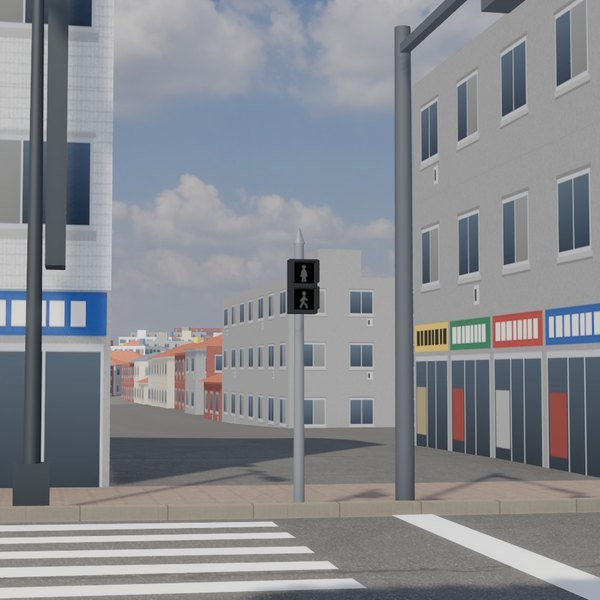
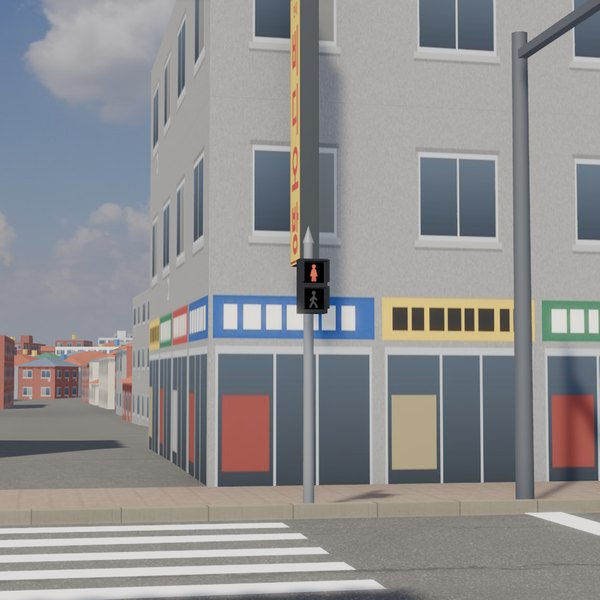
스냅샷 ped_signal: 옮긴 가운데 건널목 서쪽 끝의 보행 신호등으로
카메라를 옛 건널목(y -785) 자리에서 새 건널목의 서쪽 끝 기둥(y -778.2)
쪽으로 옮겨 다시 찍음. 고증 4.10.7 의 「y -790 m」 글도 새 자리로.

diff --git a/reference/고증/4.10.7_연세로_어귀와_보행_신호.md b/reference/고증/4.10.7_연세로_어귀와_보행_신호.md
@@ -18,7 +18,7 @@
 - [`docs/screenshots/sinchon_kumkang.jpg`](../../docs/screenshots/sinchon_kumkang.jpg): 남쪽에서 본 금강제화
 - [`docs/screenshots/sinchon_tower97.jpg`](../../docs/screenshots/sinchon_tower97.jpg): 남서쪽에서 본 공사 중인 탑 · 홍익문고 · 금강제화
 - [`docs/screenshots/sinchon_grand.jpg`](../../docs/screenshots/sinchon_grand.jpg): 북동쪽에서 본 그랜드마트의 둥근 면
-- [`docs/screenshots/ped_signal.jpg`](../../docs/screenshots/ped_signal.jpg): 연세로 y −790 m 건널목의 보행 신호등
+- [`docs/screenshots/ped_signal.jpg`](../../docs/screenshots/ped_signal.jpg): 연세로 가운데 건널목(y −786.9 ~ −778.8 m) 서쪽 끝의 보행 신호등
 
 ## 자료
 
@@ -99,7 +99,8 @@
 
 - 생김새(50377, 30197): 회색 둥근 기둥(높이 3.3 m, 뾰족한 모자), 옆구리 2.75 m에 검은 상자, 위에 빨간 서 있는 사람, 아래에 초록 걷는 사람, 등마다 챙. 기둥은 걷는 사람이 돌아감(충돌 상자)
 - 자리: 건널목 일곱의 양 끝(14개), 건널목 곁 연석 0.5 m 뒤. 등은 길 건너를 봄
-  - 연세로: y −790 · −690 · −575, 성산로 곁 어귀(−463)
+  - 연세로: 가운데 건널목(두 줄, y −786.9 ~ −778.8: 서쪽 끝 기둥은 북쪽 가, 동쪽 끝 기둥은 남쪽 가) · −690 · −575, 성산로 곁 어귀(−463)
+    - 가운데 건널목은 2026-11-16에 1997년 7월 원본 스캔의 자리로 옮김([4.10.1](4.10.1_연세로의_자리.md) 「건널목」). 전: y −790 ~ −785.5 한 줄
   - 로터리: 서강로(외환은행 앞) · 1997년 신촌로(남서)
   - 성산로: 정문 동쪽 건널목
 - 신호: 초록은 마지막 6초 깜박임
